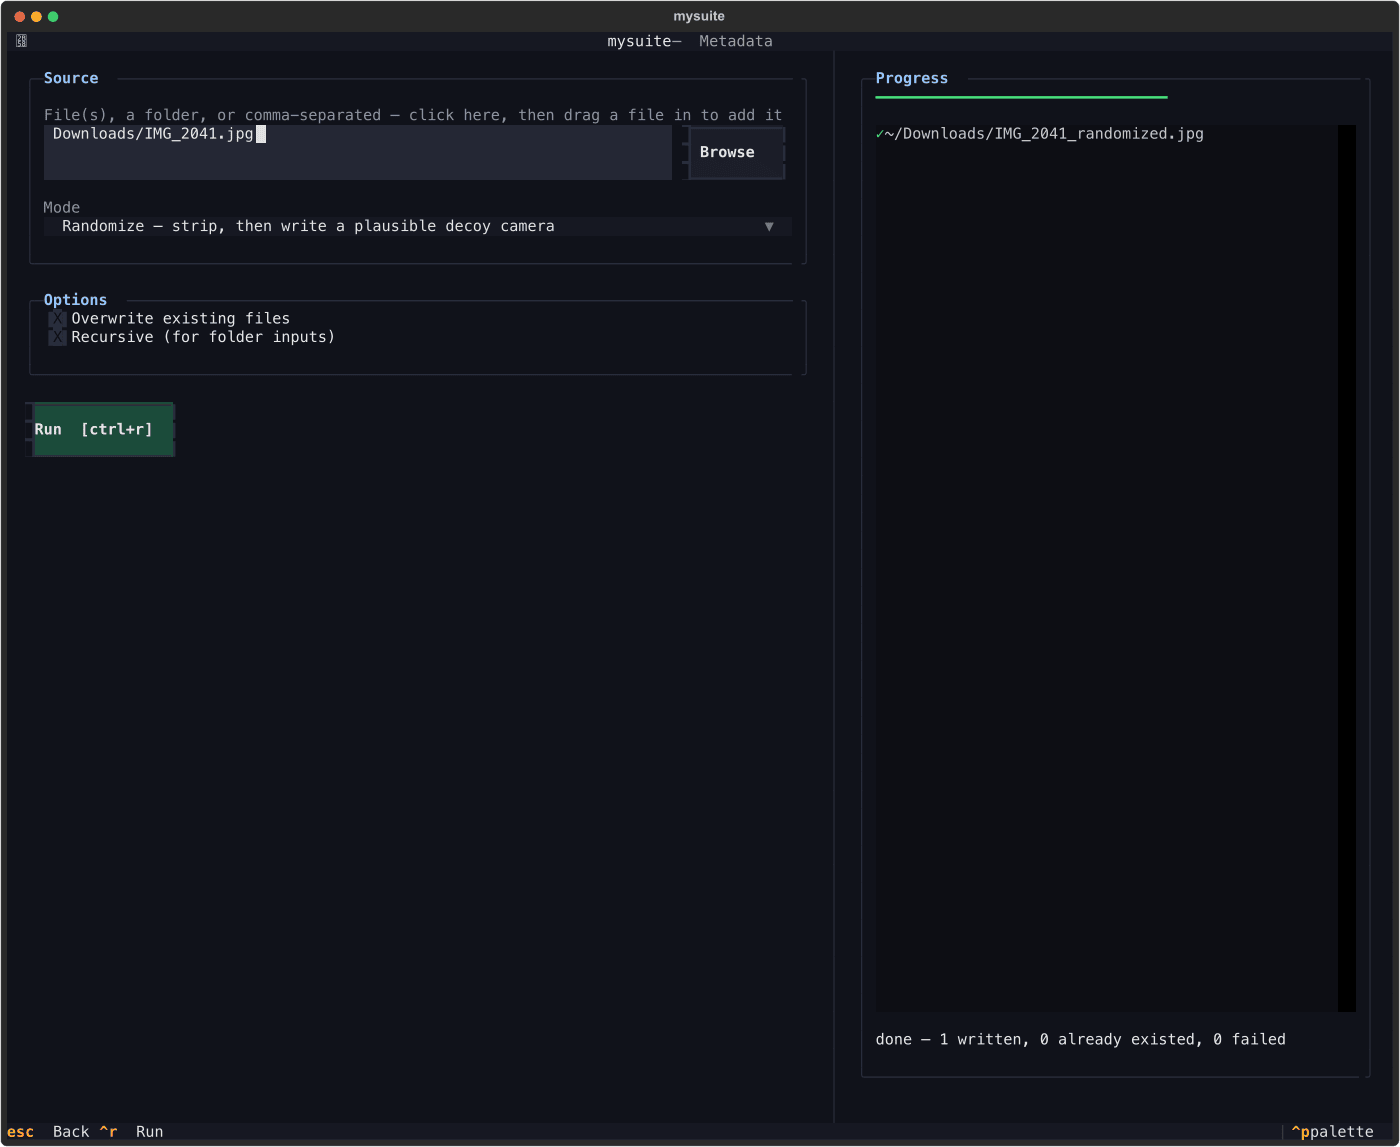
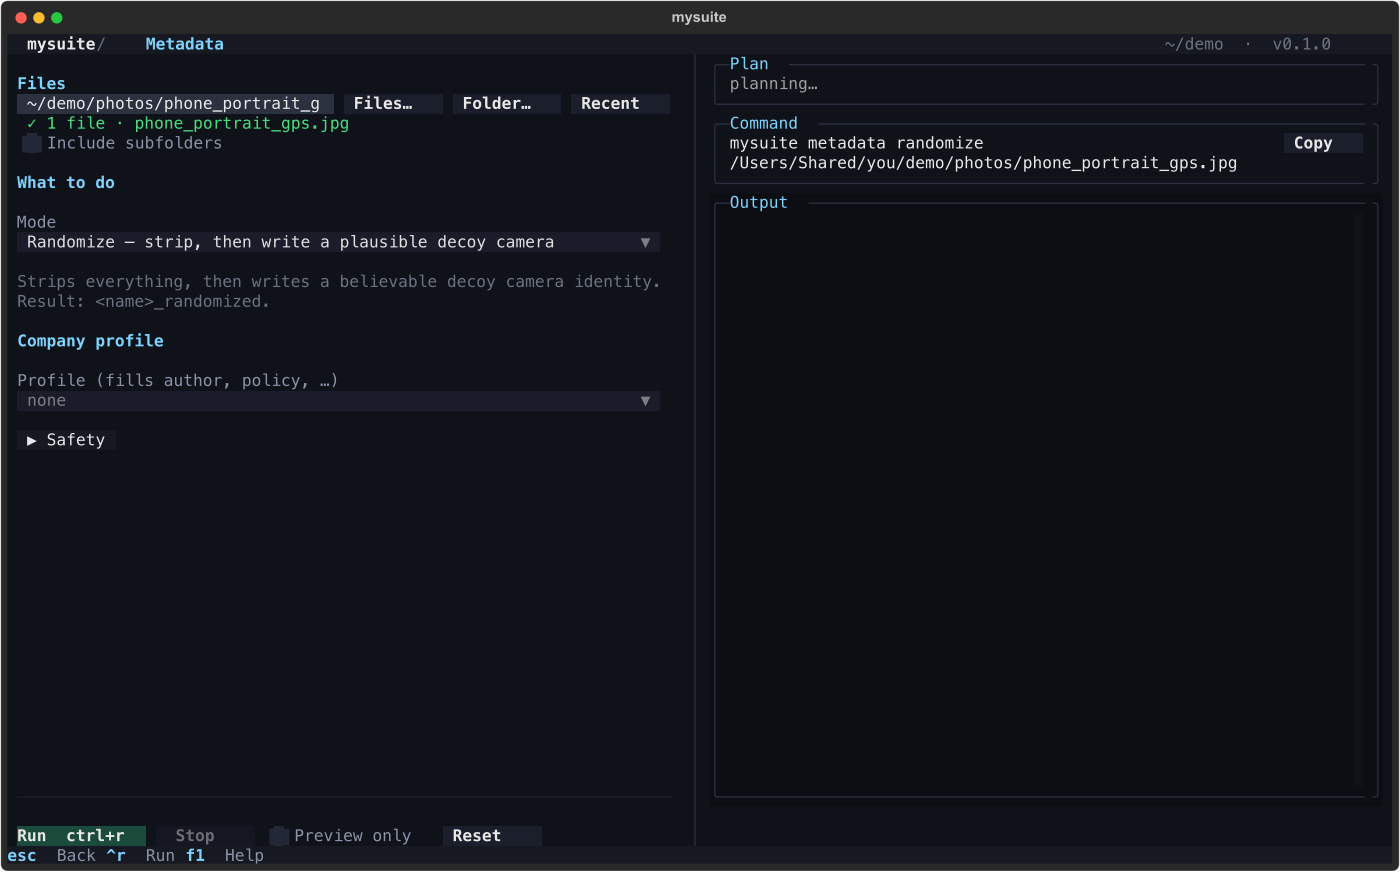
docs(readme): new dashboard screenshots, --welcome, brand CMYK, knockout/cutout, --size-by
- Re-capture every dashboard screenshot at 140x42 on the redesigned TUI,
  plus an Export screen after a real run and the help side panel.
- Drop the old-look demo.gif and the mascot front-page screenshot.
- Describe the new dashboard (headings, title bar, help panel, run log,
  timed summary) and `mysuite tui --welcome`.
- Short sections for --cmyk-map, knockout/cutout/mono:COLOUR/named
  variants and --size-by; status table rows mention them.

diff --git a/README.md b/README.md
@@ -10,9 +10,9 @@ telemetry.
 > only macOS has been tried. See [Status](#status-what-is-and-isnt-tested) for exactly what is and isn't.
 
 <p align="center">
-  <img src="docs/images/demo.gif" alt="Animated tour of the mysuite terminal dashboard: Enhance restoring a scratched photo, Metadata randomize, Compress, Export, and the file picker" width="860">
+  <img src="docs/images/screen-home.png" alt="The mysuite terminal dashboard: a title bar, then the tools as calm cards under four headings (Logos & brand, Images, Documents & privacy, Utilities)" width="860">
 </p>
-<p align="center"><sub>A real session in the terminal dashboard (<code>mysuite tui</code>), on synthetic demo images.</sub></p>
+<p align="center"><sub>The terminal dashboard (<code>mysuite tui</code>), captured at 140×42 on the generated test files.</sub></p>
 
 **Status key** (per tool, in both tables below): ✅ **Stable**: covered by automated tests and run for real on one machine, no known problem beyond the limits listed.
 🟡 **Caveats**: tested and usable, but a stated limit matters or part of it has never been run live (the row says which).
@@ -21,7 +21,7 @@ A row in the test table that covers several tools takes the weakest status among
 
 | Tool | Status | What it does |
 | --- | --- | --- |
-| `export` | ✅ Stable | One SVG → many sizes, formats (PNG/PDF/EPS/SVG/JPEG/WebP/TIFF/ICO/ICNS) and color profiles, with presets, recoloring and naming templates |
+| `export` | ✅ Stable | One SVG → many sizes, formats (PNG/PDF/EPS/SVG/JPEG/WebP/TIFF/ICO/ICNS) and color profiles, with presets, recoloring and naming templates; brand CMYK values (`--cmyk-map`) and sizes by height or width (`--size-by`) |
 | `convert` | ✅ Stable | Convert files between formats, in place beside the source |
 | `cutout` | 🟡 Caveats | Isolate a photo's subject onto a transparent background (macOS Vision) |
 | `watermark` | ✅ Stable | Stamp a logo onto images as a visible, scalable overlay |
@@ -40,7 +40,7 @@ A row in the test table that covers several tools takes the weakest status among
 | `shield` | 🧪 Experimental | **Experimental** image protection against AI editing (PhotoGuard-style encoder attack); read [docs/SHIELD.md](docs/SHIELD.md) first |
 | `install` | ✅ Stable | Fetch the heavier parts once, on demand (`tools`, `vision`, `cutout`, `shield`), into `~/.cache/mysuite` |
 | `testcases` | ✅ Stable | Generates a CC0 folder of test files (about 60) to try every tool, including the awkward cases |
-| `tokens`, `variants` | 🟡 Caveats | Design tokens (CSS variables, W3C JSON, pinned git repo, Figma): list/show/check a logo's colours, `token:NAME` recolors, and logo variants (negative/on-dark from the tokens' dark theme, mono, invert, grayscale) |
+| `tokens`, `variants` | 🟡 Caveats | Design tokens (CSS variables, W3C JSON, pinned git repo, Figma): list/show/check a logo's colours, `token:NAME` recolors, and logo variants (negative/on-dark from the tokens' dark theme, mono, invert, grayscale, `knockout`/`cutout` shapes, `mono:COLOUR`, named combinations) |
 | `transform` | ✅ Stable | Quick edits: trim, crop (box or aspect), rotate, flip, resize, pad, round corners, background — in a fixed, predictable order |
 | `relight` | 🧪 Experimental | *Experimental, classical (no AI model):* re-shade a cut-out/product/logo as if lit from another direction, with presets (key-left, dramatic, golden-hour…) |
 | `inspect` | ✅ Stable | Facts about a file (size, colour mode, transparency, palette, sharpness, GPS…) as numbers — for agents and humans |
@@ -53,7 +53,7 @@ Outputs are always written **beside the source** with a suffix (`_cutout`, `_str
 Developed and tested on macOS (Apple Silicon, Homebrew). `cutout` and `icns` export are macOS-only (`enhance` is plain Python and has no such limit).
 The rest wraps standard command-line tools, so it should work elsewhere, but that's untested.
 
-`mysuite tui` opens the dashboard: an animated front page (file-type tags drifting past, the suitcase mascot with two handles bobbing and talking), then the tools as cards (icon, name, one line; arrows or number keys). Press **h** (overview) or **F1** (any screen) and the mascot slides up and explains the tool you're in, with the same job as a terminal command.
+`mysuite tui` opens the dashboard straight on the tools: calm cards under four headings, all 16 on one screen at 140×42, opened with the arrow keys and Enter or a number key. Press **h** (overview) or **F1** (any screen) for a help panel on the right that explains the tool you're in and gives the same job as a terminal command. `mysuite tui --welcome` shows the animated intro page first.
 
 **Using it from an AI agent?** Every command has `--json`, there is a sandbox, a pipeline format and an MCP server. Start with [AGENTS.md](AGENTS.md) (rules, which command to use, tested examples) and [docs/agents/COMMANDS.md](docs/agents/COMMANDS.md).
 
@@ -105,17 +105,17 @@ Found a problem? Please open an issue with the exact command, the file type and 
 
 ## Screens
 
-The animated front page and the tool cards, then more screens. Real screenshots of the dashboard, run on synthetic images (a generated sunset harbour, a generated
-damaged "old scan" and a generated logo). File paths are shown as `~/…`.
+Real screenshots of the dashboard, captured headlessly at 140×42 on the files from `mysuite testcases make` (in `~/demo`).
+One accent colour, a title bar with the screen, folder and version, form on the left, plan / command / output on the right.
 
 | | |
 | --- | --- |
-| ![Home screen: tool cards with icons](docs/images/screen-home.png)<br>**Home** — one card per tool; arrows and Enter, or a number key; **h**/**F1** opens the helper | ![Enhance screen after restoring a scratched photo](docs/images/screen-enhance.png)<br>**Enhance** — preset applied, scratches filled, and it says face enhancement was skipped |
-| ![Metadata screen in randomize mode](docs/images/screen-metadata.png)<br>**Metadata** — strip, randomize or credit | ![Compress screen using the modern-web-webp preset](docs/images/screen-compress.png)<br>**Compress** — preset, codec options, result |
-| ![Export screen with SVG thumbnail and 14 written files](docs/images/screen-export.png)<br>**Export** — one SVG to many sizes and formats | ![File picker with Home, Desktop, Downloads and Root jumps](docs/images/screen-picker.png)<br>**File picker** — jumps, paste-a-path, hidden files off |
+| ![Home screen: tool cards under four headings](docs/images/screen-home.png)<br>**Home** — the tools under four headings; arrows and Enter, or a number key; **h**/**F1** opens help | ![Export screen after a run: 18 files written, brand CMYK values and a timed summary](docs/images/screen-export-run.png)<br>**Export, after a run** — brand CMYK (`#1D1D1B=75/65/65/80`), `knockout`/`cutout` variants, each file as ✓ name + folder, then `✓ done — 18 written · 3.3 s` |
+| ![Export screen filled in: formats, RGB and CMYK, brand CMYK and named variants](docs/images/screen-export.png)<br>**Export** — ticks show only when on; *Brand CMYK* and *More variants* fields | ![Help panel on the right with the Export explanation and the same job as a terminal command](docs/images/screen-help.png)<br>**Help** (**F1** / **h**) — a side panel with the terminal command for the same job |
+| ![Enhance screen after restoring a scratched photo](docs/images/screen-enhance.png)<br>**Enhance** — old-photo preset applied, and it says face enhancement was skipped | ![Compress screen after a run with the modern-web-webp preset](docs/images/screen-compress.png)<br>**Compress** — a preset fills the codec options |
+| ![Metadata screen in randomize mode](docs/images/screen-metadata.png)<br>**Metadata** — strip, randomize, credit, declare or apply a policy | ![File picker with Home, Desktop, Downloads and Root jumps](docs/images/screen-picker.png)<br>**File picker** — jumps, paste-a-path, hidden files off |
 | ![Convert screen](docs/images/screen-convert.png)<br>**Convert** | ![Watermark screen](docs/images/screen-watermark.png)<br>**Watermark** |
 | ![Cutout screen](docs/images/screen-cutout.png)<br>**Cutout** (macOS) | ![PDF screen generated from the CLI](docs/images/screen-pdf.png)<br>**PDF** — a screen generated from the command's own options |
-| ![Animated front page with the suitcase mascot](docs/images/screen-welcome.png)<br>**Front page** — drifting file-type tags, the suitcase blinks and talks | |
 
 ## Try it without your own pictures
 
@@ -257,6 +257,17 @@ mysuite export logo.svg --sizes 50,80 --unit mm    # same as --sizes 50mm,80mm
 `--unit` (px/mm/cm/in, also configurable as `default_unit` in `mysuite.toml`) only applies to sizes
 without their own explicit suffix — `--sizes 50,80,32px --unit mm` still exports `32px` as pixels.
 
+By default a size is the **longest side**: `--sizes 512` fits the logo into a 512×512 box, so a wide 876×512 logo
+comes out 512×300. To ask for a height (or a width) instead, use `--size-by`:
+
+```bash
+mysuite export logo.svg --sizes 512,1080,3000 --size-by height --formats svg,png,pdf          # exactly 512/1080/3000 px high
+mysuite export logo.svg --sizes 512 --size-by height --formats pdf --dpi 72                   # PDF at 1 px = 1 pt
+```
+
+The other side follows the aspect ratio (rsvg-convert rounds it up, e.g. 299.25 → 300). `size_by` also works in
+`[export]` and in a profile's `[export]`. ICO/ICNS bundles stay square.
+
 Preview without writing anything:
 
 ```bash
@@ -334,6 +345,26 @@ and `grayscale` need no tokens. Each variant of an export lands in its own folde
 result, mysuite reports every mapping it made and every colour it could not map. If you use a proprietary design system,
 keep its token files out of any public repository.
 
+### Knockout, cut-out and named variants
+
+A brand logo set is often more than recolours: the negative is the background shape with the letters punched out,
+and the cut-out is the letters without the shape. Two variant steps do that from the one positive logo, and `+` /
+`=` combine steps and name the output folder (`[NAME=]STEP[+STEP…]`):
+
+```bash
+mysuite export logo.svg --formats png,pdf --sizes 512 \
+    --variants 'positiv=default,negativ_bright=knockout+mono-white,negativ_dark=knockout+mono:#1D1D1B,cut_out_bright=cutout+mono-white,cut_out_dark=cutout+mono:#1D1D1B'
+```
+
+- `knockout`: the background shape stays and everything on it becomes holes (a one-colour negative).
+- `cutout`: the background shape is removed and everything on it stays.
+- `mono:COLOUR`: everything in one colour, e.g. `mono:#1D1D1B` (besides `mono-black` and `mono-white`).
+
+The background is found by rendering (the first shape that holds ≥97% of what is painted after it); a logo without
+one is a clear error. When the shapes are simple, the knockout is one flat even-odd path, so CMYK stays clean;
+otherwise it falls back to an SVG mask and says so (PDF/EPS then carry a soft mask). The specs work in `export
+--variants`, `variants make`, a profile's `variants`, the MCP tools and the dashboard's *More variants* field.
+
 ## Variants & recoloring
 
 `--variant` nests an export under the *same* name folder as the primary one, instead of getting
@@ -401,6 +432,20 @@ mysuite export logo.svg --formats pdf --profiles cmyk --cmyk-profile FOGRA39.icc
   not snapped to `clean` values (the export tells you when that happened); ink values in the PDF can wobble by
   about 0.1 % (Ghostscript prints 70 as 69.9); a CMYK TIFF can't hold transparency, so it is flattened on white
   unless you pass `--background`; spot colours are not supported.
+
+**Brand CMYK values.** A profile can only approximate a brand book's print values (with the default profile, `#DD0000`
+becomes 6.3/100/100/1.2 instead of 0/100/100/0). Pin them with `--cmyk-map`, and they are used as given in PDF, EPS
+and TIFF:
+
+```bash
+mysuite export logo.svg --formats pdf,eps,tiff --profiles cmyk \
+    --cmyk-map '#DD0000=0/100/100/0' --cmyk-map '#1D1D1B=75/65/65/80'
+```
+
+A pinned value is never rounded by `clean` and isn't turned into black-only ink. It matches the final colour (after
+`--recolor`), and colours within CIEDE2000 2 of it (anti-aliased edges) take it too. Put them in `mysuite.toml` as
+`cmyk_map = { "#DD0000" = "0/100/100/0" }` under `[export]` or a profile's `[export]`; the dashboard has a *Brand CMYK*
+field. In `--json` each CMYK colour has `"fixed": true|false`, and the text output labels pinned ones `(brand value)`.
 
 ## Presets
 
@@ -655,11 +700,14 @@ which files you processed is itself a trace.
 ## Terminal dashboard
 
 ```bash
-mysuite tui
+mysuite tui              # straight to the tools
+mysuite tui --welcome    # the animated intro page first
 ```
 
-Opens an interactive home screen listing the available tools as cards, each with its own accent colour.
-Press a number key to jump straight to a tool, or arrow keys + Enter; **h** / **F1** explains the screen you are on.
+Opens on the tools: one card per tool under four headings (*Logos & brand*, *Images*, *Documents & privacy*,
+*Utilities*), in one accent colour on neutral greys; green, amber and red are only used for status. A title bar shows
+the screen, the folder you are in, the active company profile and the version. Press a number key to jump straight to a
+tool, or arrow keys + Enter; **h** / **F1** opens a help panel on the right with the same job as a terminal command.
 
 The seven single-tool screens — **Export, Convert, Cutout, Watermark, Metadata, Compress, Enhance** — and the generated screens (Kits, PDF, Exact, Helpers, Tokens, Profiles, Protect, Parts; built from each command's own options) share one layout.
 Each form is a front end for the real `mysuite <tool> …` command, so the screen and the CLI can never disagree:
@@ -670,7 +718,9 @@ Each form is a front end for the real `mysuite <tool> …` command, so the scree
 - **Plan** (live): "4 file(s) from 1 SVG(s) → exports; png ×2, pdf ×2", asked from the command's own `--dry-run` while you edit.
 - **Command** (live, with a *Copy* button): the exact `mysuite export …` line the form stands for. Paste it into a script
   or hand it to an agent; only the values you changed appear, so config, presets and profiles keep their say.
-- **Output**: the command's own output, a progress bar that follows each finished file, and an *Open output folder* button.
+- **Output**: the command's own output with each finished file as `✓ name  folder`, a progress bar and an elapsed timer
+  while it runs, then a summary such as `✓ done — 18 written · 3.3 s` and an *Open output folder* button.
+  Tick boxes are empty when off and show a ✓ when on.
   *Preview only* runs the same command with `--dry-run`; *Stop* ends a long run.
 - **Remembers your last settings per tool** (sizes, formats, output folder, switches…) in `~/.cache/mysuite/ui-state.json` —
   values and paths only, never file contents. *Reset* forgets a tool's settings; `MYSUITE_NO_UI_STATE=1` turns the memory off.
